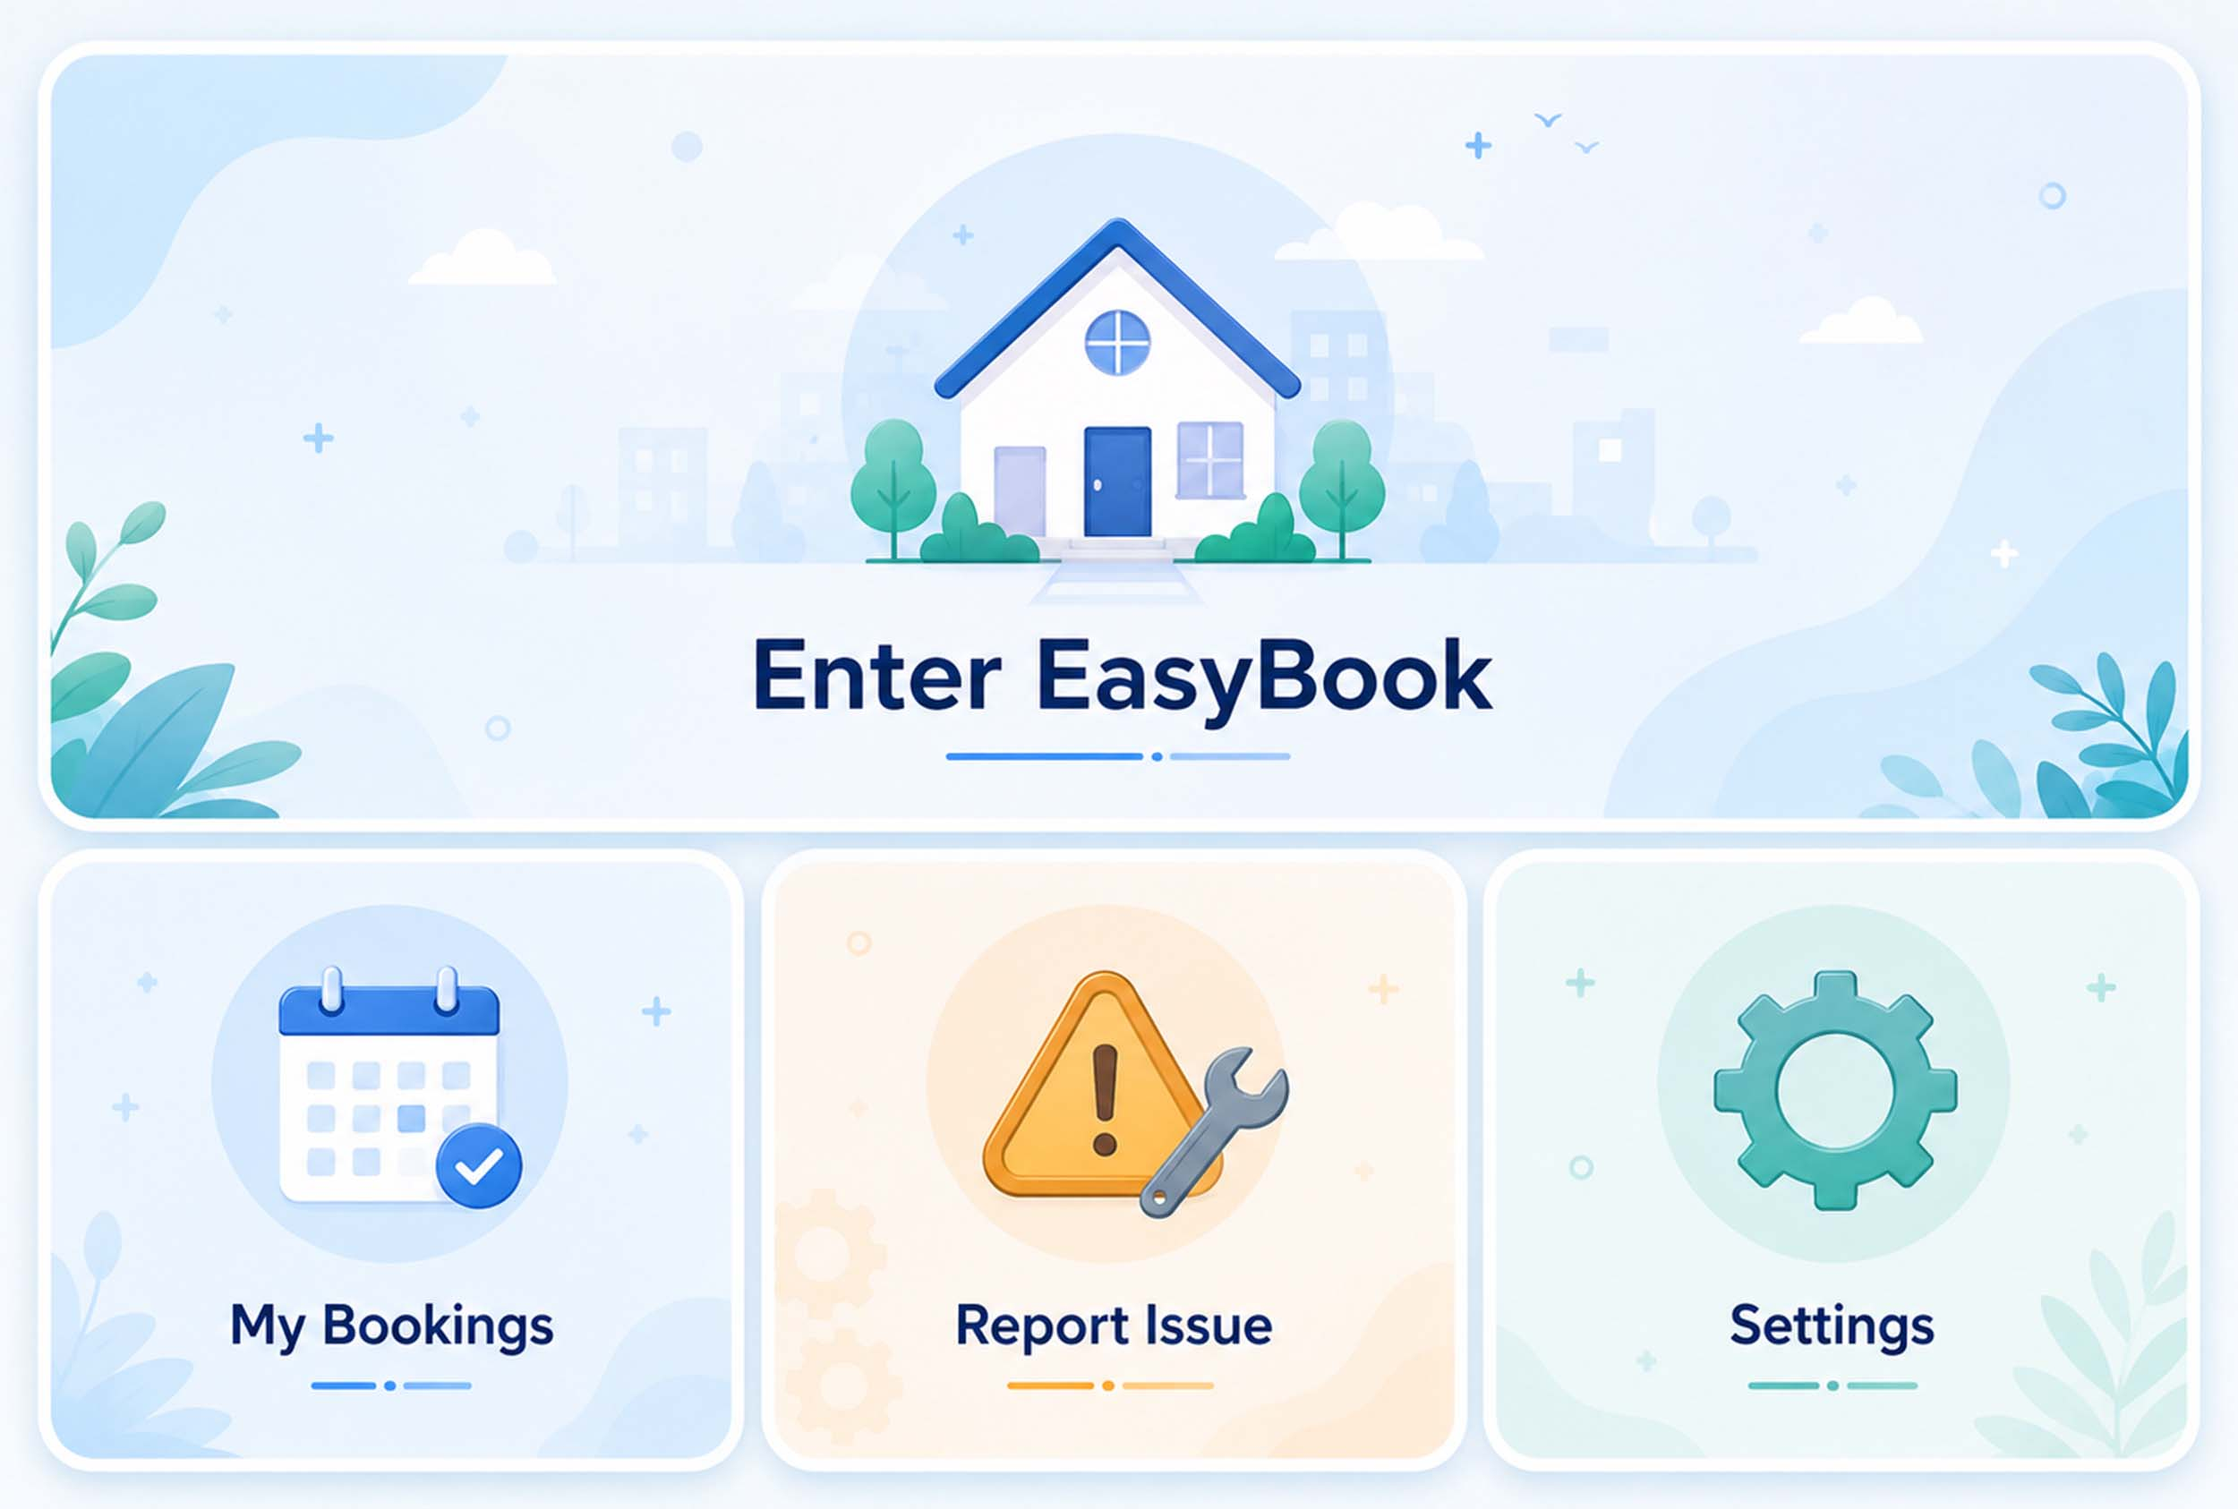
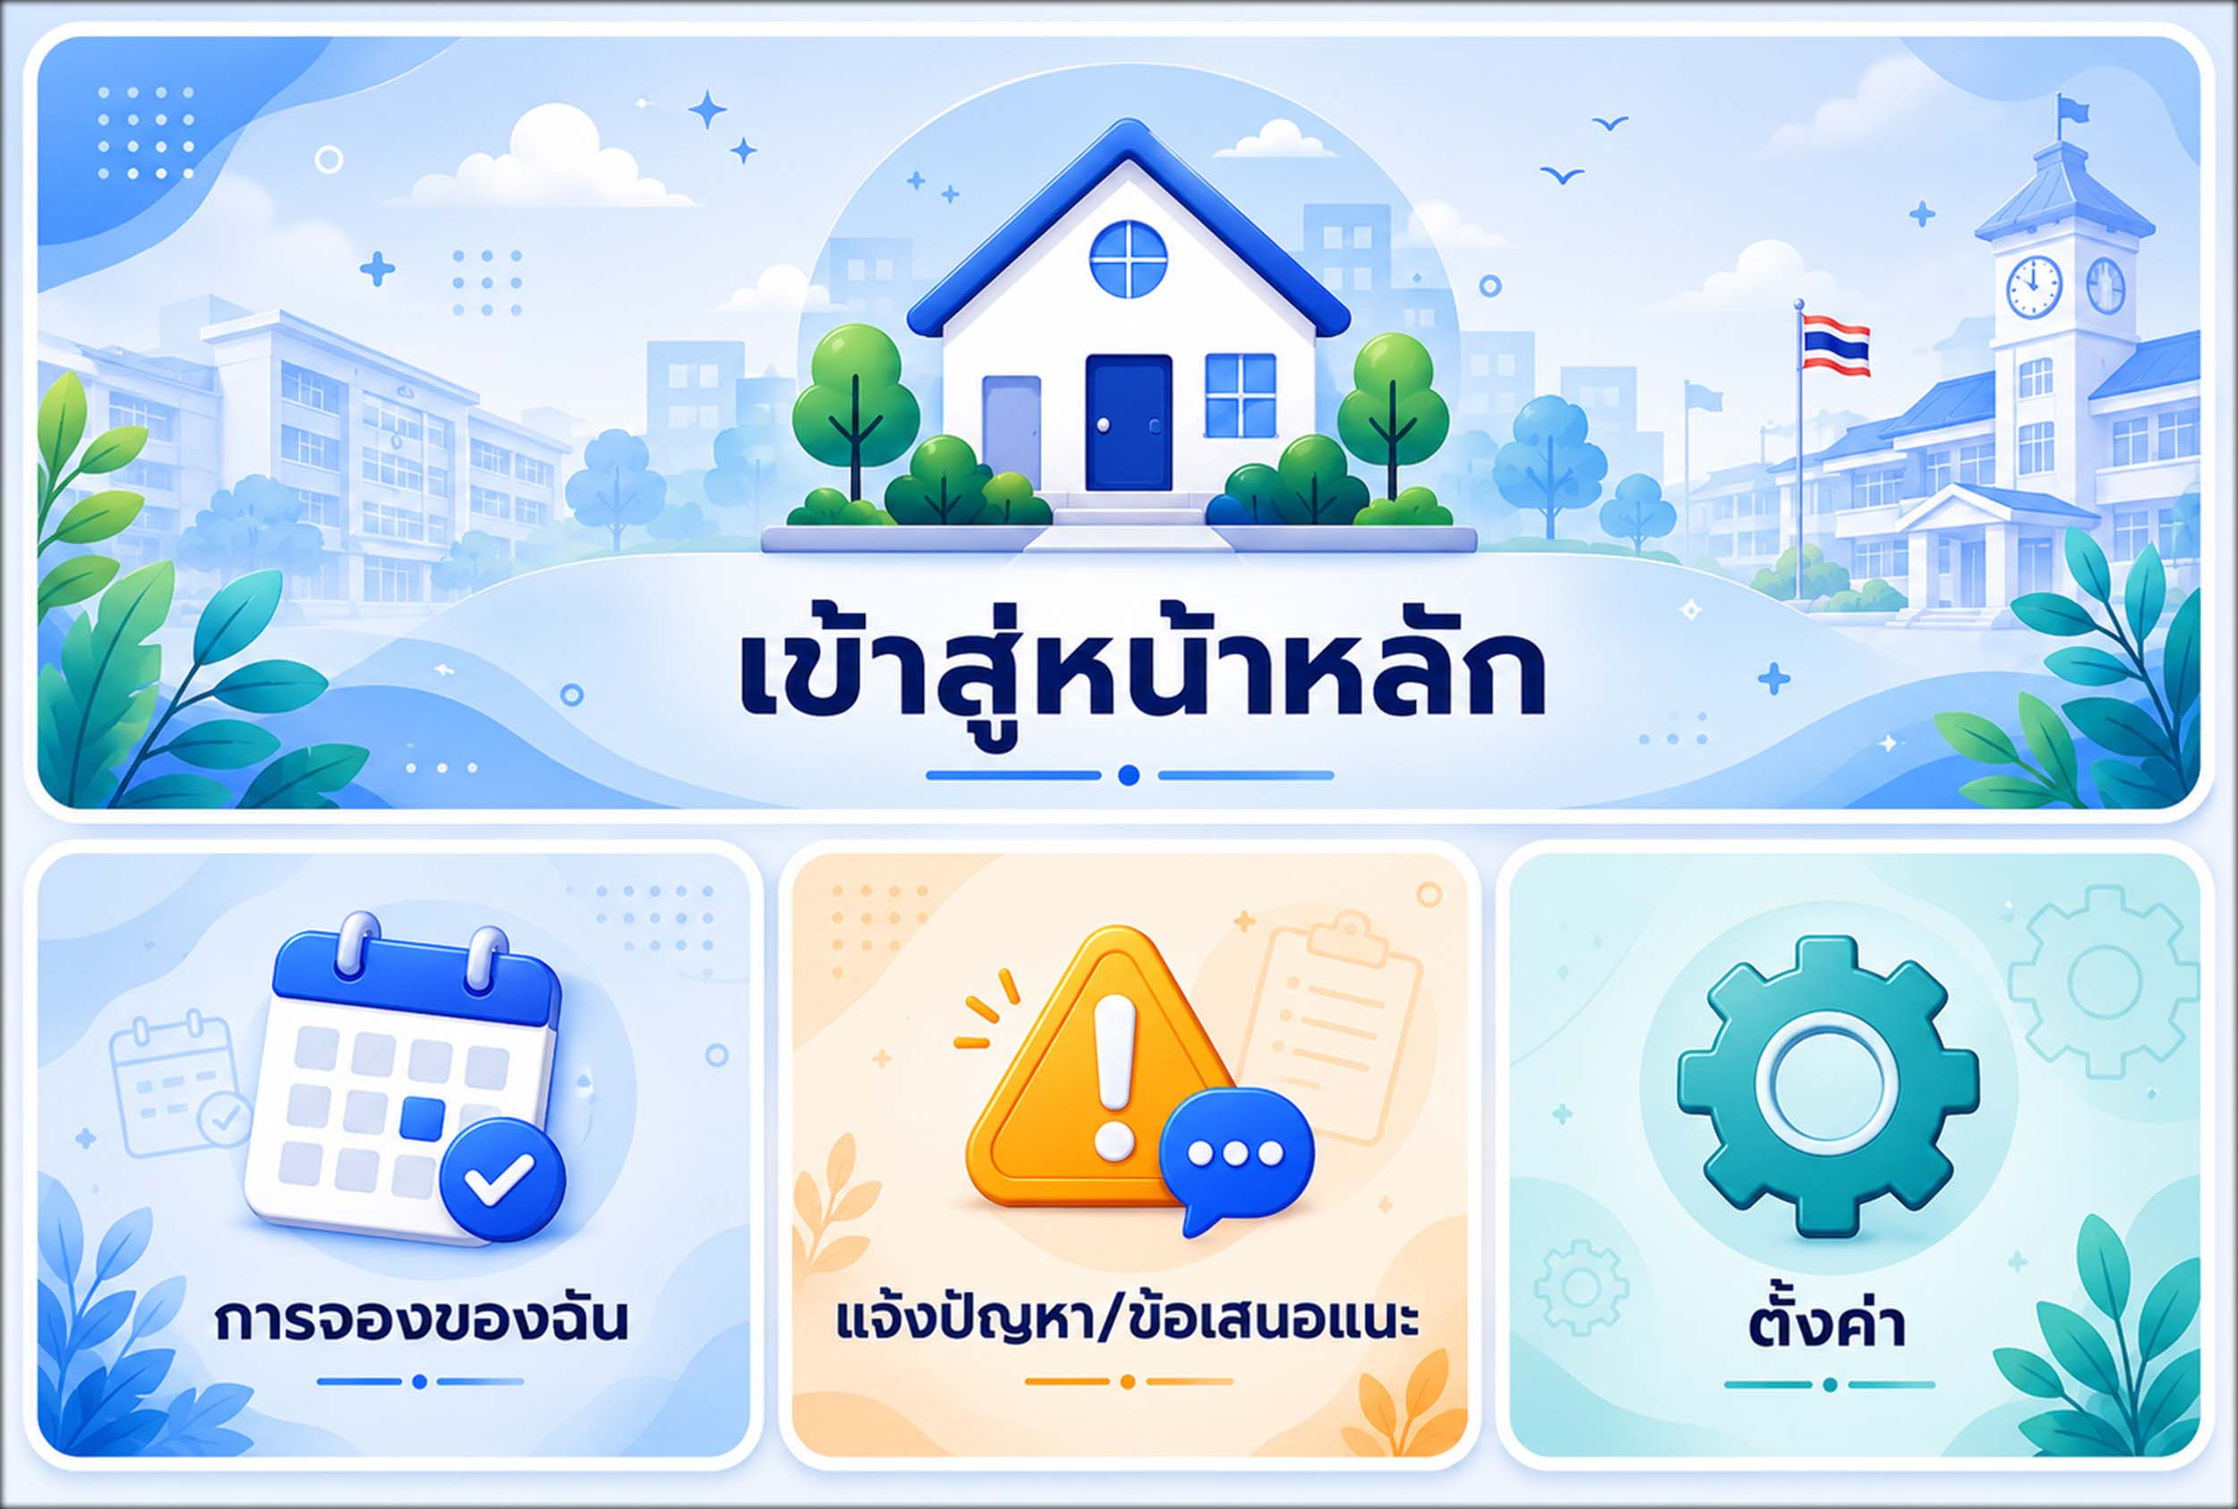
feat(line,system-users): update rich menu assets and add phone search to staff
- Support phone number search in system-users.service.ts with Swagger doc updates and unit tests

- Update rich menu assets for Type 1 (2500x843) and Type 2 (2500x1686) with Thai shortcut labels

- Set menuType2.selected: true and align area bounds in setup-rich-menu.ts

diff --git a/scripts/setup-rich-menu.ts b/scripts/setup-rich-menu.ts
@@ -43,10 +43,15 @@ interface MenuDef {
   menu: messagingApi.RichMenuRequest;
 }
 
-// menu_type_1.jpg — 2500x1686 ("Check Status / Login"), one full-bleed area that
-// opens the LIFF app. This artwork was 2500x843 (half height) before 2026-07-31;
-// the size below and RICH_MENU_SPECS.TYPE_1 both had to change with it, because
-// LINE rejects an image whose dimensions differ from the declared size.
+// menu_type_1.jpg — 2500x843 ("EasyBook Application"), one full-bleed area that
+// opens the LIFF app. The artwork is a single edge-to-edge panel with no card
+// gutters, so the one area below deliberately covers the whole canvas.
+//
+// This height has changed twice (2500x843 → 2500x1686 on 2026-07-31, back to
+// 2500x843 with the current artwork). The area takes its size from TYPE_1 rather
+// than hardcoding numbers precisely so the next swap cannot leave it overflowing:
+// LINE rejects an image whose dimensions differ from the declared size, and it
+// rejects an area that extends past the canvas.
 const menuType1: MenuDef = {
   key: 'type1',
   richMenuType: 'TYPE_1',
@@ -66,26 +71,36 @@ const menuType1: MenuDef = {
      * ⚠ CHANGING THIS STRING DOES NOTHING UNTIL `npm run line:setup-richmenu` IS RE-RUN. Rich
      * menus live on LINE's side, not in this repo — the script recreates them by name.
      */
-    chatBarText: 'เริ่มต้นใช้งาน',
+    chatBarText: 'เมนู',
     areas: [
       {
         bounds: { x: 0, y: 0, width: TYPE_1.width, height: TYPE_1.height },
-        action: { type: 'uri', label: 'Check Status / Login', uri: LIFF_URI },
+        action: { type: 'uri', label: 'EasyBook Application', uri: LIFF_URI },
       },
     ],
   },
 };
 
-// menu_type_2.jpg — 2500x1686: one wide "Enter EasyBook" card on top, three cards
-// below (My Bookings / Report Issue / Settings).
+// menu_type_2.jpg — 2500x1686: one wide "เข้าสู่หน้าหลัก" card on top, three cards
+// below (การจองของฉัน / แจ้งปัญหา / ตั้งค่า).
 //
-// The bounds below are MEASURED from the artwork, not assumed: the gutters between
-// the bottom cards sit at x≈815-870 and x≈1635-1670, and the gap between the top
-// card and the bottom row at y≈931-969. The split lines (x=840, x=1650, y=950)
-// therefore fall in the middle of a gutter rather than clipping a card edge, and
-// the four areas tile the full 2500x1686 so there is no dead zone that swallows a
-// tap. The previous layout assumed an even 843/843 split with equal thirds, which
-// no longer matches this artwork.
+// The bounds below are MEASURED from the artwork, not assumed (re-verified
+// 2026-08-29 by decoding the JPEG and locating the card edges against the light
+// background). The cards sit on a ~41px margin with gutters between them:
+//
+//   top card      x 41..2458   y 40..904
+//   gutter                     y 905..955
+//   bottom row                 y 956..1628
+//   bottom cards  x 41..837 | 885..1639 | 1687..2458  (gutters x 838..884, 1640..1686)
+//
+// Each area hugs its own card to within ~5px, so no area clips a neighbouring card
+// and none extends past the canvas. UNLIKE THE PREVIOUS LAYOUT, these areas do not
+// tile the full 2500x1686 — the margins and gutters (~13% of the canvas) are
+// deliberately dead. That is the trade: a tap on the visible gap between two cards
+// does nothing rather than firing whichever neighbour happened to own the gutter.
+//
+// Re-measure this block whenever the artwork is replaced; the numbers are specific
+// to this image, not to the 2500x1686 format.
 //
 // Only the top card has a destination today. The other three are shortcuts to
 // pages that do not exist yet, so they postback and the webhook answers with
@@ -97,18 +112,18 @@ const menuType2: MenuDef = {
   image: resolve(ASSET_DIR, 'menu_type_2.jpg'),
   menu: {
     size: { width: TYPE_2.width, height: TYPE_2.height },
-    selected: false,
+    selected: true,
     name: TYPE_2.name,
-    chatBarText: 'เริ่มต้นใช้งาน',
+    chatBarText: 'เมนู',
     areas: [
       {
-        // Top card "Enter EasyBook" → opens the LIFF app.
-        bounds: { x: 0, y: 0, width: TYPE_2.width, height: 950 },
-        action: { type: 'uri', label: 'Enter EasyBook', uri: LIFF_URI },
+        // Top card "เข้าสู่หน้าหลัก" → opens the LIFF app.
+        bounds: { x: 41, y: 41, width: 2418, height: 866 },
+        action: { type: 'uri', label: 'เข้าสู่หน้าหลัก', uri: LIFF_URI },
       },
       {
-        // Bottom-left "My Bookings" (blue).
-        bounds: { x: 0, y: 950, width: 840, height: 736 },
+        // Bottom-left "การจองของฉัน" (blue).
+        bounds: { x: 41, y: 951, width: 797, height: 680 },
         action: {
           type: 'postback',
           label: RICH_MENU_SHORTCUTS.myBookings.label,
@@ -116,8 +131,8 @@ const menuType2: MenuDef = {
         },
       },
       {
-        // Bottom-middle "Report Issue" (orange).
-        bounds: { x: 840, y: 950, width: 810, height: 736 },
+        // Bottom-middle "แจ้งปัญหา" (orange).
+        bounds: { x: 887, y: 953, width: 756, height: 675 },
         action: {
           type: 'postback',
           label: RICH_MENU_SHORTCUTS.reportIssue.label,
@@ -125,8 +140,8 @@ const menuType2: MenuDef = {
         },
       },
       {
-        // Bottom-right "Settings" (green).
-        bounds: { x: 1650, y: 950, width: 850, height: 736 },
+        // Bottom-right "ตั้งค่า" (green).
+        bounds: { x: 1686, y: 955, width: 774, height: 676 },
         action: {
           type: 'postback',
           label: RICH_MENU_SHORTCUTS.settings.label,
@@ -171,7 +186,7 @@ async function loadActiveUsers(prisma: PrismaService): Promise<ActiveUser[]> {
  * of `LineUserService.applyRichMenu` is `updateAccess` (approve/block/reinstate),
  * and `upsertOnFollow` deliberately does not link. So before this pass existed, a
  * menu refresh silently dropped every ALLOWED user onto the account default —
- * which this script sets to type1, the restricted "Check Status / Login" menu —
+ * which this script sets to type1, the restricted "EasyBook Application" menu —
  * while the DB still read `richMenuType: TYPE_2`. Nothing detected the drift, and
  * the only recovery was an admin re-approving each user by hand.
  *

diff --git a/src/line/rich-menu.constants.ts b/src/line/rich-menu.constants.ts
@@ -10,18 +10,24 @@ export interface RichMenuSpec {
  * Identifies the live rich menu for each RichMenuType by name + size (as created
  * by `scripts/setup-rich-menu.ts`).
  *
- * NOTE: both menus are now 2500x1686. TYPE_1 used to be the half-height 2500x843
- * format, and while it was, size genuinely disambiguated the two. It no longer
- * does — the NAME is the only discriminator today, so `findRichMenuId` degrades to
- * a name match and duplicate names on the LINE account would make resolution
+ * NOTE: TYPE_1 is the half-height 2500x843 format and TYPE_2 is the full-height
+ * 2500x1686 one, so name + size is once again a genuine composite key. Do NOT
+ * lean on that: this height has flipped twice already (843 → 1686 on 2026-07-31,
+ * back to 843 with the current artwork), and whenever the two menus share a size
+ * the NAME is the only discriminator left — `findRichMenuId` then degrades to a
+ * name match, and duplicate names on the LINE account would make resolution
  * non-deterministic. The setup script deletes menus by name before recreating
  * them, which is what keeps duplicates from existing in the first place. Keep
  * these dimensions in sync with the actual files in `assets/richmenu/` — LINE
  * rejects an upload whose image size differs from the size declared at create
- * time.
+ * time, and it accepts only a fixed set of sizes (2500x1686, 2500x843, 1200x810,
+ * 1200x405, 800x540, 800x270).
+ *
+ * Verified 2026-08-29 against the JPEG SOF markers: menu_type_1.jpg is 2500x843
+ * and menu_type_2.jpg is 2500x1686.
  */
 export const RICH_MENU_SPECS: Record<RichMenuType, RichMenuSpec> = {
-  TYPE_1: { name: 'easy-book-liff', width: 2500, height: 1686 },
+  TYPE_1: { name: 'easy-book-liff', width: 2500, height: 843 },
   TYPE_2: { name: 'easy-book-main', width: 2500, height: 1686 },
 };
 
@@ -53,19 +59,19 @@ export interface RichMenuShortcut {
 export const RICH_MENU_SHORTCUTS = {
   myBookings: {
     data: 'action=my-bookings',
-    label: 'My Bookings',
+    label: 'การจองของฉัน',
     pendingMessage:
       'ฟีเจอร์ "การจองของฉัน" กำลังพัฒนาอยู่ เร็ว ๆ นี้จะเปิดให้ใช้งาน 🙏',
   },
   reportIssue: {
     data: 'action=report-issue',
-    label: 'Report Issue',
+    label: 'แจ้งปัญหา',
     pendingMessage:
       'ฟีเจอร์ "แจ้งปัญหา" กำลังพัฒนาอยู่ เร็ว ๆ นี้จะเปิดให้ใช้งาน 🙏',
   },
   settings: {
     data: 'action=settings',
-    label: 'Settings',
+    label: 'ตั้งค่า',
     pendingMessage:
       'ฟีเจอร์ "ตั้งค่า" กำลังพัฒนาอยู่ เร็ว ๆ นี้จะเปิดให้ใช้งาน 🙏',
   },

diff --git a/src/system-users/system-users.controller.ts b/src/system-users/system-users.controller.ts
@@ -136,7 +136,7 @@ export class SystemUsersController {
   @ApiOperation({
     summary: 'List back-office users, paginated.',
     description:
-      'Search matches the first name, last name or email, case-insensitively. `role` and `status` narrow further; `status` is derived (`deleted` > `suspended` > `pending` > `active`), matching the badge the screen shows. Soft-deleted rows are excluded from `data` and from `meta.total` unless `status=deleted`, which is SUPER_ADMIN-only and is the only way to obtain the id a restore needs. Ordered `createdAt DESC, id DESC`. A page beyond the last one is a 200 with an empty `data`, not a 404.',
+      'Search matches the first name, last name, email or phone number, case-insensitively. The phone match is on the number as stored and is therefore format-sensitive (`0812345678` does not match a stored `081-234-5678`). `role` and `status` narrow further; `status` is derived (`deleted` > `suspended` > `pending` > `active`), matching the badge the screen shows. Soft-deleted rows are excluded from `data` and from `meta.total` unless `status=deleted`, which is SUPER_ADMIN-only and is the only way to obtain the id a restore needs. Ordered `createdAt DESC, id DESC`. A page beyond the last one is a 200 with an empty `data`, not a 404.',
   })
   @ApiOkResponse({
     description: 'A page of users.',

diff --git a/src/system-users/system-users.service.ts b/src/system-users/system-users.service.ts
@@ -321,6 +321,14 @@ export class SystemUsersService {
               { firstName: { contains: q, mode: 'insensitive' } },
               { lastName: { contains: q, mode: 'insensitive' } },
               { email: { contains: q, mode: 'insensitive' } },
+              // ⚠ FORMAT-SENSITIVE, unlike LineUserRegistration's search. That model carries a
+              // normalized `phoneDigits` column alongside `phone` precisely so an operator can
+              // find a number however it was typed; `SystemUser` has no such column, so
+              // `0812345678` does NOT match a stored `081-234-5678`. Fixing that is a schema
+              // change (architect/pm), not something to paper over here with a digits-only
+              // fallback — a second OR term on the raw column cannot match across separators.
+              // A NULL phoneNumber simply never matches `contains`, which is correct.
+              { phoneNumber: { contains: q, mode: 'insensitive' } },
             ],
           }
         : {}),

diff --git a/src/system-users/system-users.service.spec.ts b/src/system-users/system-users.service.spec.ts
@@ -470,7 +470,7 @@ describe('SystemUsersService', () => {
       expect($transaction).not.toHaveBeenCalled();
     });
 
-    it('search matches first name, last name OR email, case-insensitively', async () => {
+    it('search matches first name, last name, email OR phone number, case-insensitively', async () => {
       $transaction.mockResolvedValue([[], 0]);
 
       await service.findManyPaginated(
@@ -483,7 +483,12 @@ describe('SystemUsersService', () => {
         expect.objectContaining({
           where: {
             deletedAt: null,
-            OR: [{ firstName: like }, { lastName: like }, { email: like }],
+            OR: [
+              { firstName: like },
+              { lastName: like },
+              { email: like },
+              { phoneNumber: like },
+            ],
           },
         }),
       );

diff --git a/src/system-users/dto/list-system-users-query.dto.ts b/src/system-users/dto/list-system-users-query.dto.ts
@@ -75,8 +75,9 @@ export class ListSystemUsersQueryDto {
   @ApiPropertyOptional({
     maxLength: 100,
     description:
-      'Case-insensitive substring match on the first name, last name or email. Trimmed; ' +
-      'empty/absent → no search filter.',
+      'Case-insensitive substring match on the first name, last name, email or phone number. ' +
+      'Trimmed; empty/absent → no search filter. The phone match is on the number **as stored**, ' +
+      'so it is format-sensitive: `0812345678` does not match a stored `081-234-5678`.',
   })
   @IsOptional()
   @Transform(trim)
